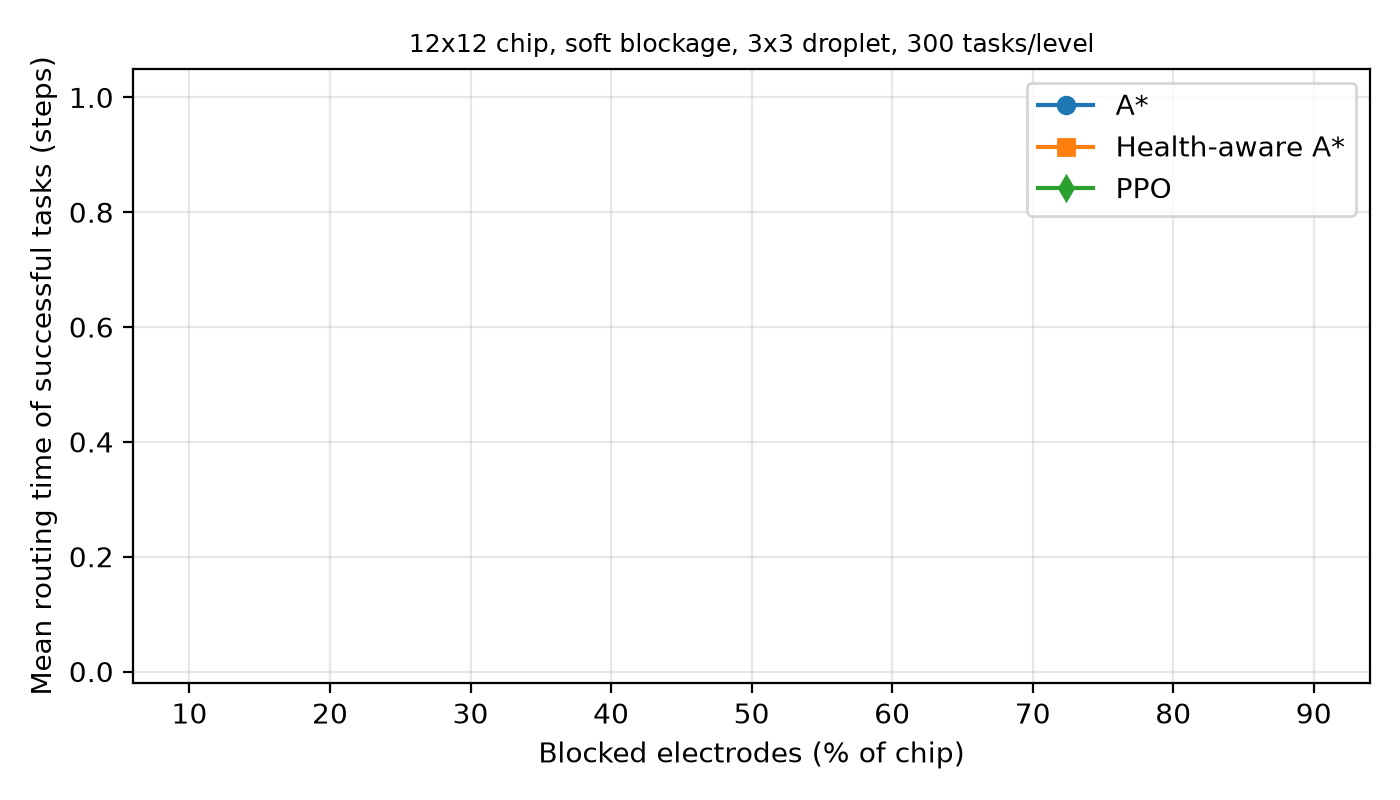
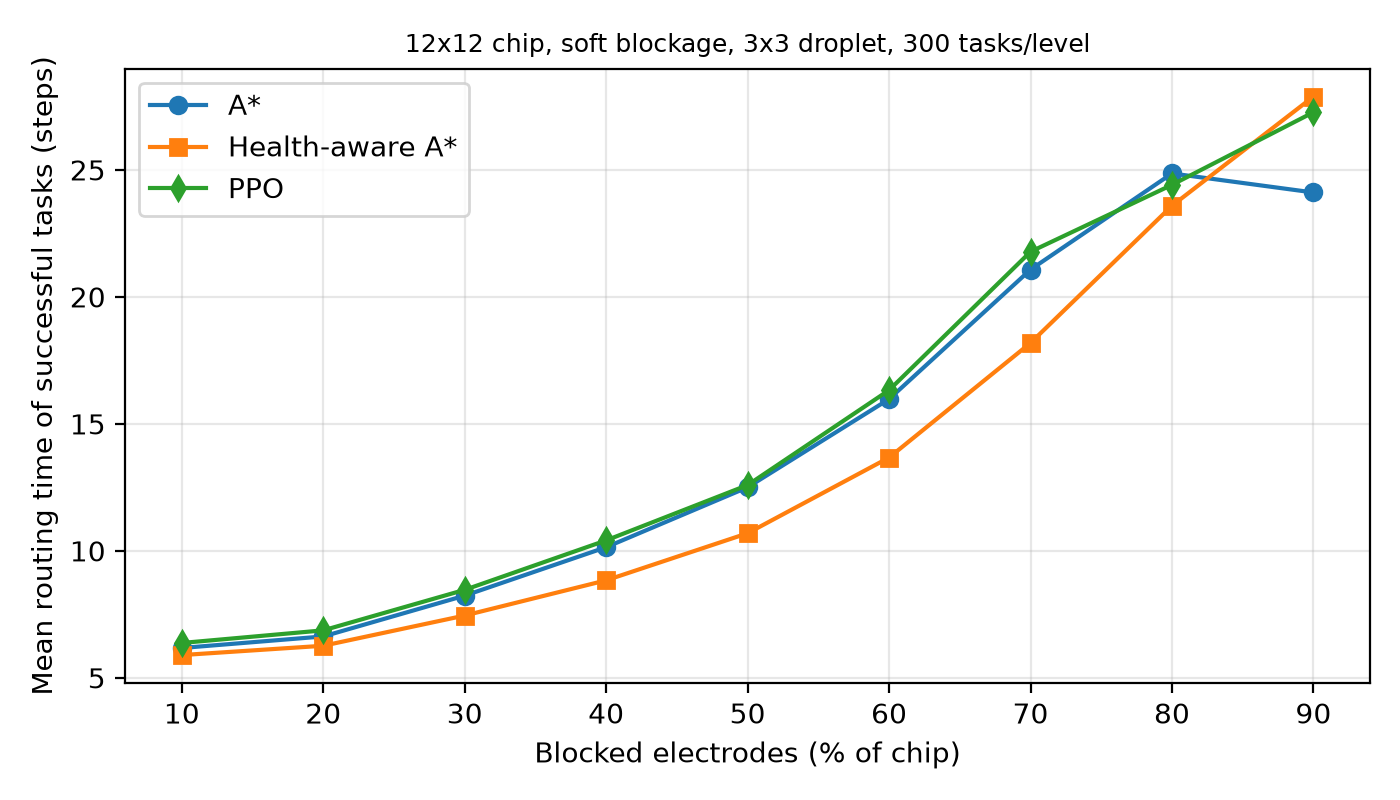
Fix empty routing-time plots in blockage sweep
The steps plot reused the 0-1 y-axis limit meant for success rates, because
"success" also matched "mean_steps_success". Redrew the four steps plots
from the saved CSVs and corrected the speed claim in the README.

diff --git a/experiments/exp6_blockage_sweep.py b/experiments/exp6_blockage_sweep.py
@@ -235,7 +235,7 @@ for metric, ylab, fn in [
         ax.plot(x, [r[metric] for r in rows if r["method"] == m], marker=mk_, label=m)
     ax.set_xlabel("Blocked electrodes (% of chip)"); ax.set_ylabel(ylab)
     ax.set_xticks(x)
-    if "success" in metric:
+    if metric.startswith("success"):
         ax.set_ylim(-0.02, 1.05)
     ax.grid(alpha=0.3); ax.legend(); ax.set_title(title, fontsize=9)
     fig.tight_layout(); fig.savefig(os.path.join(args.out, f"blockage_{fn}_{tag}.png"), dpi=200)

diff --git a/README.md b/README.md
@@ -383,7 +383,9 @@ observing the blockage map). Deadline success:
 <p align="center"><img src="results/blockage_sweep/blockage_success_soft_12_ppo.png" width="60%" alt="A*, health-aware A* and PPO vs blockage"></p>
 
 - **Health-aware A\* wins at every blockage level.** Its advantage is largest between 20% and 50% blocked
-  when a deadline applies, and between 60% and 90% when it does not. It is also 10–25% faster on successful tasks.
+  when a deadline applies, and between 60% and 90% when it does not. Up to 70% blocked it is also 6–23% faster on successful
+  tasks. At 80–90% its mean time is higher because it also completes hard tasks that A\* fails (A\* succeeds on
+  only 3% of tasks at 90%, so its average covers only the easiest ones).
 - **PPO performs about like plain A\*** and stays below health-aware A\*, the same picture as Experiment 4.
 - Two further chip models are in [`results/blockage_sweep/`](results/blockage_sweep/):
   `*_soft_30_worn` (blocked electrodes plus partly worn good ones: same ranking, larger gaps) and
